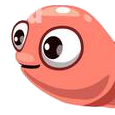
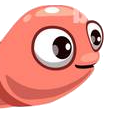
Flipped worm sprite around so head direction is consistent with angle

diff --git a/hero_sprites.py b/hero_sprites.py
@@ -68,12 +68,12 @@ class Worm(pg.sprite.RenderPlain):
         self.add(head)
 
         seg = WormSegment(WormSegment.SegmentType.MIDDLE)
-        seg.move(head.rect.x+head.rect.width, 300)
+        seg.move(head.rect.x-head.rect.width, 300)
         seg.set_new_target({"x": head.rect.x,"y":head.rect.y}, WormDirection.LEFT)
         self.add(seg)
 
         tail = WormSegment(WormSegment.SegmentType.TAIL)
-        tail.move(seg.rect.x + head.rect.width, 300)
+        tail.move(seg.rect.x-head.rect.width, 300)
         tail.set_new_target({"x": seg.rect.x, "y": seg.rect.y}, WormDirection.LEFT)
         self.add(tail)
 
@@ -88,12 +88,12 @@ class Worm(pg.sprite.RenderPlain):
         head: WormSegment = self.sprites()[0]
         did_move, dir_change = self.move_head(dt)
 
-        # If head has changed direction, update first segment target if exists
-        if dir_change and len(self.sprites()) > 1:
-            self.sprites()[1].set_new_target({"x": head.rect.x,"y":head.rect.y}, head.direction)
+        # # If head has changed direction, update first segment target if exists
+        # if dir_change and len(self.sprites()) > 1:
+        #     self.sprites()[1].set_new_target({"x": head.rect.x,"y":head.rect.y}, head.direction)
 
-        if did_move:
-            self.move_segs(dt)
+        # if did_move:
+        #     self.move_segs(dt)
 
     def move_head(self, dt):
         keys = pg.key.get_pressed()
@@ -103,23 +103,24 @@ class Worm(pg.sprite.RenderPlain):
         prev_direction = head.direction
 
         if keys[pg.K_w]:
-            head.set_rotate(270)
+            head.set_rotate(90)
             head.move(0, -self.speed * dt)
             head.direction = WormDirection.UP
             did_move = True
         elif keys[pg.K_s]:
-            head.set_rotate(90)
+            head.set_rotate(270)
             head.move(0, self.speed * dt)
             head.direction = WormDirection.DOWN
             did_move = True
         elif keys[pg.K_a]:
             head.set_rotate(0)
+            head.flip_x()
             head.move(-self.speed * dt, 0)
             head.direction = WormDirection.LEFT
             did_move = True
         elif keys[pg.K_d]:
             head.set_rotate(0)
-            head.flip_x()
+
             head.move(self.speed * dt, 0)
             head.direction = WormDirection.RIGHT
             did_move = True

diff --git a/main.py b/main.py
@@ -47,7 +47,7 @@ def load_level():
 def show_debug():
     mess_list = []
     for s in worm.sprites():
-        mess_list.append(f'{s.target_position}')
+        mess_list.append(f'{s.target_position} | {s.direction}')
 
     debug.set_message_list(mess_list)
     debug.render()
